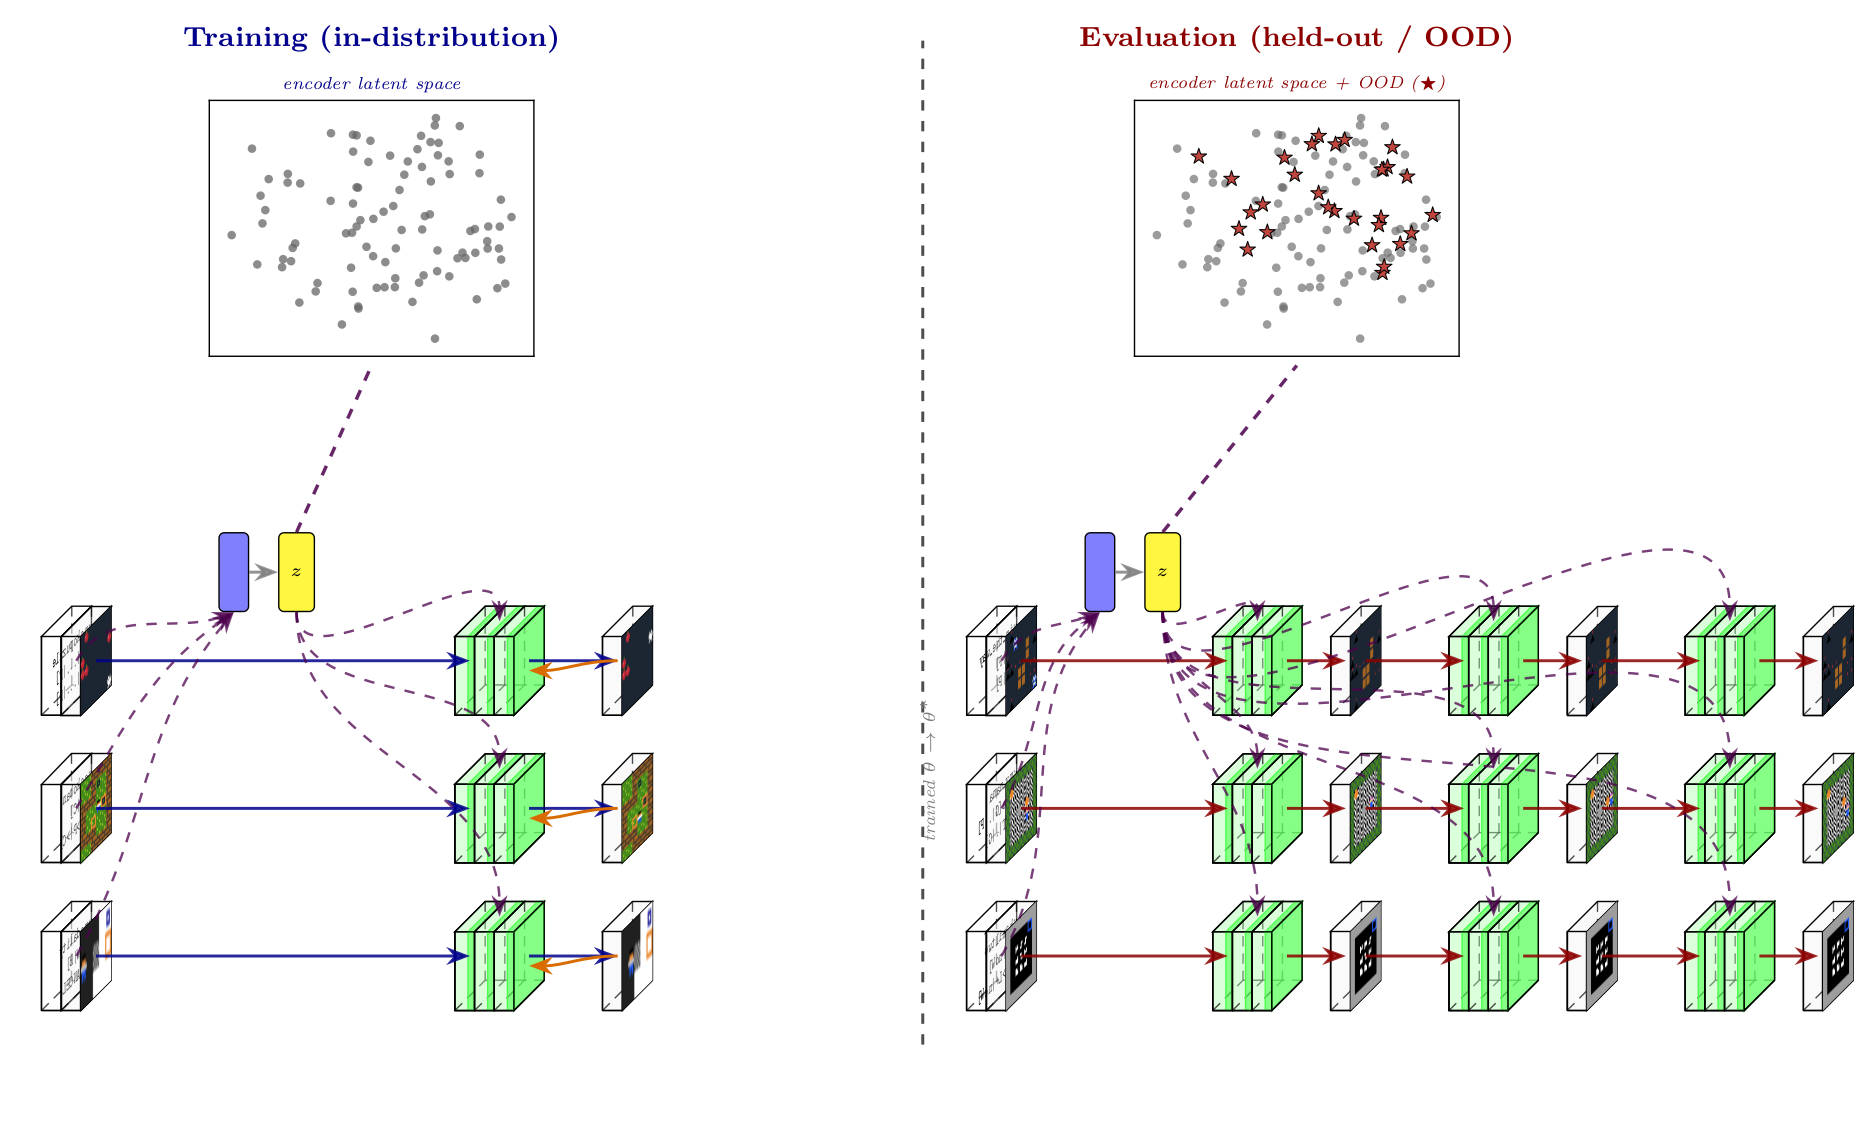
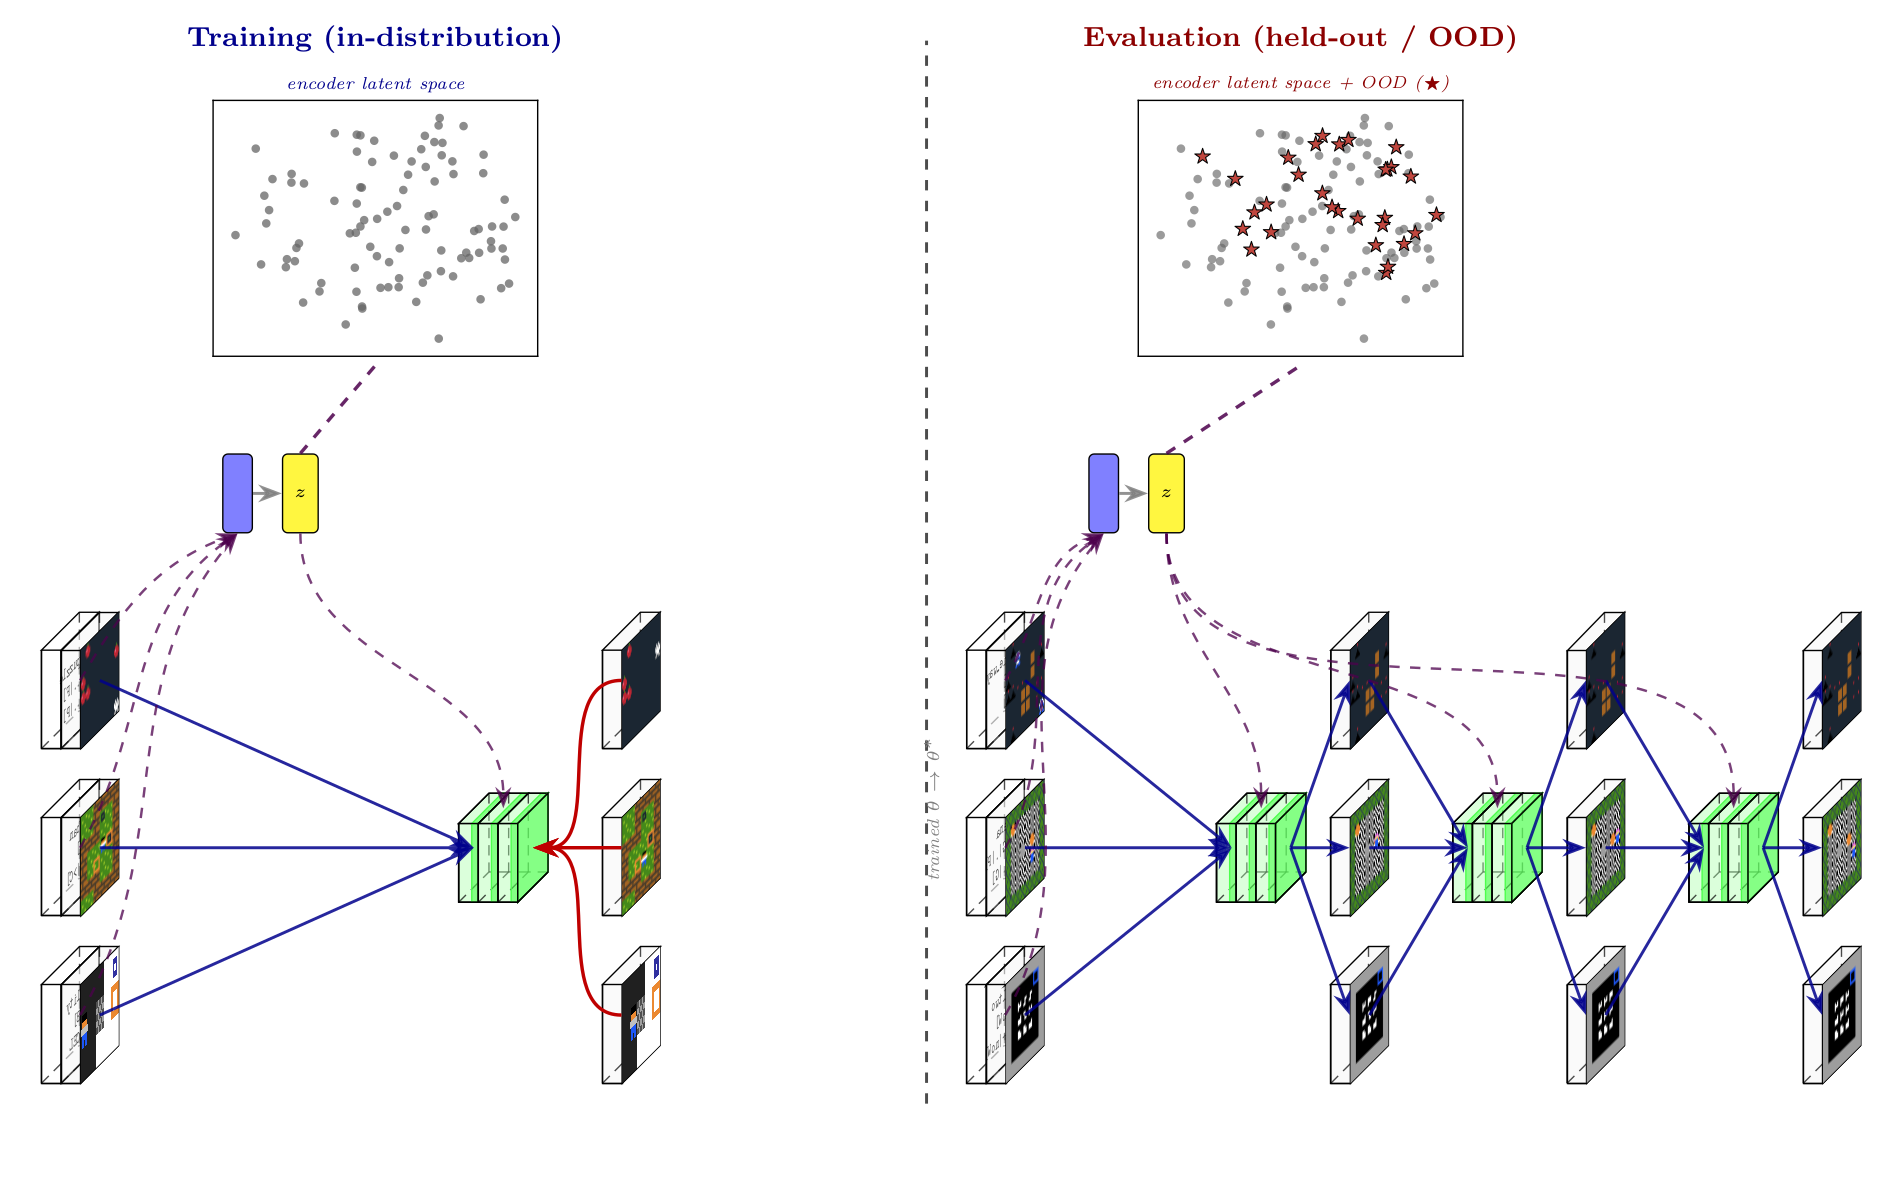
Paper: one NCA per timestep (vertically centered), all-blue eval arrows, red loss
- ID half: drop the per-row NCA columns. A single NCA sits vertically
  centered between the s_0 column and the s_1 column. Each row's s_0
  fans into it; the s_1 frames are the supervision target — only the
  red loss arrow connects them back to the NCA, no blue forward arrow.
- OOD half: collapse the 3-NCA-per-row stack into one NCA per
  timestep, vertically centered. Fan-in from all 3 rows, fan-out to
  all 3 rows. Every input/NCA/output arrow is blue (no red in eval).
- Encoder + latent block raised to y=3.6 so it sits clear of the rows.
- Loss arrow color shifted from orange to red (LossColor = red!75!black).
- State and code boxes enlarged: height/depth 4 → 5; image / code
  text size 0.8 → 1.0 cm.

diff --git a/nca_wm/paper/figures/id_ood_teaser/teaser.tex b/nca_wm/paper/figures/id_ood_teaser/teaser.tex
@@ -2,21 +2,18 @@
 %
 % Single-document standalone TikZ figure.
 %
-% Per game row: a "card pair" — a code Box flush against the WEST
-% (left, reading-order back) face of the PuzzleScript state Box, both
-% same height, both transparent. Code text on the shared east face;
+% Per game row: a transparent code Box flush against the WEST face of
+% a transparent PuzzleScript state Box. Code on the shared east face,
 % state image on the state's east face.
 %
-% Per section: a single skinny Encoder (one blue block) feeds a
-% yellow Latent block ($z$). The latent block conditions every NCA
-% application (drawn as just the 3 green NCA bands). ID rows use one
-% NCA between s_0 and s_1; OOD rows repeat the NCA between every
-% consecutive predicted frame so the autoregressive rollout is
-% explicit.
+% Per section: a single skinny Encoder (one blue block) feeds a yellow
+% Latent block ($z$). The latent block conditions every NCA application
+% (drawn as just the 3 green NCA bands). ID uses ONE NCA (vertically
+% centered between rows) between s_0 and s_1; OOD uses ONE NCA per
+% timestep, also vertically centered, with all rows fanning in/out.
 %
 % Latent scatters (large, above the figure) are connected from the
-% yellow latent block by a dashed line — they're the 2D PCA view of
-% the latent that the encoder produces.
+% yellow latent block by a dashed line.
 %
 \documentclass[border=4pt, multi, tikz]{standalone}
 \usepackage{amsmath}
@@ -38,39 +35,39 @@
 
 \colorlet{IDColor}{blue!55!black}
 \colorlet{OODColor}{red!55!black}
-\colorlet{LossColor}{orange!85!black}
+\colorlet{LossColor}{red!75!black}
 \colorlet{CondColor}{violet!60!black}
 
-% --- PS state frame (transparent). ---
+% --- PS state frame (transparent), bigger than before. ---
 \newcommand{\PSframe}[4]{%
   \pic[shift={(#2, #3, 0)}] at (0,0,0)
       {Box={name=#1, caption=, xlabel={{,}}, zlabel={},
             fill=PSFrameFill, opacity=0.35,
-            height=4, width=1.0, depth=4}};%
+            height=5, width=1.0, depth=5}};%
   \node[canvas is zy plane at x={#2 + 0.2}] at (0, #3)
-      {\includegraphics[width=0.8cm,height=0.8cm]{#4}};%
+      {\includegraphics[width=1.0cm,height=1.0cm]{#4}};%
 }
 
 % --- Card pair: code box LEFT of state box, both transparent.
-%     State image on state east face; code text on the shared boundary.
+%     Bigger than before so the code text is more legible.
 \newcommand{\StateOnCode}[5]{%
   \pic[shift={({#2 - 0.2}, #3, 0)}] at (0,0,0)
       {Box={name=#1c, caption=, xlabel={{,}}, zlabel={},
             fill=CodeFill, opacity=0.35,
-            height=4, width=1.0, depth=4}};%
+            height=5, width=1.0, depth=5}};%
   \node[canvas is zy plane at x={#2}, font=\tiny\ttfamily,
-        align=left, inner sep=0pt, text width=0.78cm,
+        align=left, inner sep=0pt, text width=0.95cm,
         anchor=center]
         at (0, #3) {#5};%
   \pic[shift={(#2, #3, 0)}] at (0,0,0)
       {Box={name=#1g, caption=, xlabel={{,}}, zlabel={},
             fill=PSFrameFill, opacity=0.35,
-            height=4, width=1.0, depth=4}};%
+            height=5, width=1.0, depth=5}};%
   \node[canvas is zy plane at x={#2 + 0.2}] at (0, #3)
-      {\includegraphics[width=0.8cm,height=0.8cm]{#4}};%
+      {\includegraphics[width=1.0cm,height=1.0cm]{#4}};%
 }
 
-% --- NCA "step": just the 3 green bands at (x, y). Anchors n#1-west / -east.
+% --- NCA "step": just the 3 green bands at (x, y).
 \newcommand{\NCAstep}[3]{%
   \pic[shift={(#2, #3, 0)}] at (0,0,0)
       {RightBandedBox={name=n#1, caption=, xlabel={{,,}}, zlabel={},
@@ -79,7 +76,7 @@
 }
 
 % --- Encoder + Latent: one skinny blue Encoder + a yellow Latent ($z$)
-%     block to its right. (#1=name, #2=enc x, #3=enc y).
+%     block to its right.
 \newcommand{\EncLatent}[3]{%
   \node[draw, rounded corners=1.5pt, fill=EncColor, line width=0.4pt,
         minimum width=0.30cm, minimum height=0.80cm, anchor=center]
@@ -96,7 +93,7 @@
 \tikzstyle{connection}=[thick, every node/.style={sloped,allow upside down},
     draw=\edgecolor, opacity=0.7]
 \tikzstyle{arrow}=[-Stealth, line width=0.3mm, opacity=0.85]
-\tikzstyle{lossarrow}=[-Stealth, line width=0.3mm, color=LossColor]
+\tikzstyle{lossarrow}=[-Stealth, line width=0.35mm, color=LossColor]
 \tikzstyle{condarrow}=[-Stealth, line width=0.25mm, dashed,
     color=CondColor, opacity=0.75]
 \tikzstyle{condline}=[line width=0.35mm, dashed,
@@ -106,154 +103,137 @@
 %  LEFT HALF: in-distribution training
 % =============================================================
 
-\StateOnCode{neko}{-7}{ 1.5}{rollouts/nekopuzzle/engine_t0.png}
+\StateOnCode{neko}{-7}{ 1.7}{rollouts/nekopuzzle/engine_t0.png}
     {;nekopuzzle\\{}[>P|...|F]\\->[|...|P]}
 \StateOnCode{soko}{-7}{ 0.0}{rollouts/sokoban_basic/engine_t0.png}
     {;sokoban\\{}[>P|C]\\->[>P|>C]}
-\StateOnCode{mod} {-7}{-1.5}{rollouts/Modality/engine_t0.png}
+\StateOnCode{mod} {-7}{-1.7}{rollouts/Modality/engine_t0.png}
     {;modality\\{}[>PW|B]\\->CANCEL}
 
-% Encoder + latent block ABOVE the rows (y=2.4) so the state→NCA
-% arrows don't pass through it.
-\EncLatent{id}{-5.4}{2.4}
+\EncLatent{id}{-5.4}{3.6}
 
-% One NCA per ID row.
-\NCAstep{idtop}{-3}{ 1.5}
-\NCAstep{idmid}{-3}{ 0.0}
-\NCAstep{idbot}{-3}{-1.5}
+% Single ID NCA, vertically centered (y=0).
+\NCAstep{idn}{-3}{0}
 
-\PSframe{s1_neko}{-1.5}{ 1.5}{rollouts/nekopuzzle/engine_t1.png}
+\PSframe{s1_neko}{-1.5}{ 1.7}{rollouts/nekopuzzle/engine_t1.png}
 \PSframe{s1_soko}{-1.5}{ 0.0}{rollouts/sokoban_basic/engine_t1.png}
-\PSframe{s1_mod} {-1.5}{-1.5}{rollouts/Modality/engine_t1.png}
+\PSframe{s1_mod} {-1.5}{-1.7}{rollouts/Modality/engine_t1.png}
 
-% State (blue) into NCA per row
-\draw[arrow, color=IDColor] (nekog-east) -- (nidtop-west);
-\draw[arrow, color=IDColor] (sokog-east) -- (nidmid-west);
-\draw[arrow, color=IDColor] (modg-east)  -- (nidbot-west);
-% NCA → s_1 per row
-\draw[arrow, color=IDColor] (nidtop-east) -- (s1_neko-west);
-\draw[arrow, color=IDColor] (nidmid-east) -- (s1_soko-west);
-\draw[arrow, color=IDColor] (nidbot-east) -- (s1_mod-west);
+% Forward (blue) state arrows: each row's state -> single NCA (fan-in).
+\draw[arrow, color=IDColor] (nekog-east) -- (nidn-west);
+\draw[arrow, color=IDColor] (sokog-east) -- (nidn-west);
+\draw[arrow, color=IDColor] (modg-east)  -- (nidn-west);
 
-% Code → encoder (dashed violet, fan-in upward to encoder above rows)
+% Loss (red) arrows back from each s_1 to the NCA.
+\draw[lossarrow] (s1_neko-west) to[out=180,in=  0] (nidn-east);
+\draw[lossarrow] (s1_soko-west) to[out=180,in=  0] (nidn-east);
+\draw[lossarrow] (s1_mod-west)  to[out=180,in=  0] (nidn-east);
+
+% Code → encoder fan-in (upward to encoder above rows)
 \draw[condarrow] (nekoc-east) to[out= 60,in=200] (enc_id.south);
 \draw[condarrow] (sokoc-east) to[out= 60,in=215] (enc_id.south);
 \draw[condarrow] (modc-east)  to[out= 60,in=230] (enc_id.south);
 
-% Latent z conditions every ID NCA (down + over to each NCA top)
-\draw[condarrow] (slots_id.south) to[out=-90,in= 90] (nidtop-north);
-\draw[condarrow] (slots_id.south) to[out=-90,in= 90] (nidmid-north);
-\draw[condarrow] (slots_id.south) to[out=-90,in= 90] (nidbot-north);
+% Latent z conditions the ID NCA
+\draw[condarrow] (slots_id.south) to[out=-90,in=90] (nidn-north);
 
-% Loss (dark orange): s_1 back to NCA per row
-\draw[lossarrow] (s1_neko-west) to[out=180,in=  0] ($(nidtop-east)+(0,-0.10)$);
-\draw[lossarrow] (s1_soko-west) to[out=180,in=  0] ($(nidmid-east)+(0,-0.10)$);
-\draw[lossarrow] (s1_mod-west)  to[out=180,in=  0] ($(nidbot-east)+(0,-0.10)$);
-
-% Latent scatter ABOVE the encoder (wider)
-\node[anchor=south, inner sep=1pt] (latent_id) at (-4.0, 4.5)
+% Latent scatter ABOVE the encoder
+\node[anchor=south, inner sep=1pt] (latent_id) at (-4.0, 4.9)
     {\includegraphics[width=3.4cm]{latent_train_only.pdf}};
 \node[font=\tiny\itshape, color=IDColor, anchor=south]
-    at (-4.0, 7.15) {encoder latent space};
+    at (-4.0, 7.55) {encoder latent space};
 \draw[condline] (slots_id.north) -- (latent_id.south);
 
-% ID banner
 \node[font=\footnotesize\bfseries, color=IDColor, anchor=south, align=center]
-    at (-4.0, 7.55) {Training (in-distribution)};
+    at (-4.0, 7.95) {Training (in-distribution)};
 
 % =============================================================
 %  VERTICAL DASHED BORDER between train and eval
 % =============================================================
 \draw[dashed, line width=0.3mm, color=black!70]
-    (1.6, -2.4) -- (1.6,  7.8);
+    (1.6, -2.6) -- (1.6,  8.2);
 \node[font=\itshape\tiny, color=black!50, anchor=south, rotate=90]
     at (1.85, 0.4) {trained $\theta \rightarrow \theta^{*}$};
 
 % =============================================================
-%  RIGHT HALF: held-out eval — NCA repeated between every frame
+%  RIGHT HALF: held-out eval — one NCA per TIMESTEP, all rows fan in
 % =============================================================
 
-\StateOnCode{inway}{ 2.4}{ 1.5}
+\StateOnCode{inway}{ 2.4}{ 1.7}
     {rollouts/in_the_way_by_giovanni_mota/pred_t0.png}
     {;in\_the\_way\\{}[>P|F]\\->[|P]}
 \StateOnCode{nana}{ 2.4}{ 0.0}
     {rollouts/my_nana_ate_my_kid_brother_by_ruth_williams/pred_t0.png}
     {;my\_nana\\late[G|.|P]\\->[T|.|G]}
-\StateOnCode{ham}{ 2.4}{-1.5}
+\StateOnCode{ham}{ 2.4}{-1.7}
     {rollouts/Hamiltwo/pred_t0.png}
     {;hamiltwo\\{}[>L|noW]\\->[>L+|noW]}
 
-% Encoder + latent ABOVE the rows
-\EncLatent{ood}{3.4}{2.4}
+\EncLatent{ood}{3.4}{3.6}
 
-% NCA at x=4.7, ŝ_1 at 5.9, NCA at 7.1, ŝ_2 at 8.3, NCA at 9.5, ŝ_3 at 10.7
-\NCAstep{ooinway1}{4.7}{ 1.5}
-\NCAstep{ooinway2}{7.1}{ 1.5}
-\NCAstep{ooinway3}{9.5}{ 1.5}
-\NCAstep{oonana1}{4.7}{ 0.0}
-\NCAstep{oonana2}{7.1}{ 0.0}
-\NCAstep{oonana3}{9.5}{ 0.0}
-\NCAstep{ooham1}{4.7}{-1.5}
-\NCAstep{ooham2}{7.1}{-1.5}
-\NCAstep{ooham3}{9.5}{-1.5}
+% Three NCA timesteps, vertically centered.
+\NCAstep{oodn1}{4.7}{0}
+\NCAstep{oodn2}{7.1}{0}
+\NCAstep{oodn3}{9.5}{0}
 
-\PSframe{h1_inway}{ 5.9}{ 1.5}{rollouts/in_the_way_by_giovanni_mota/pred_t1.png}
-\PSframe{h2_inway}{ 8.3}{ 1.5}{rollouts/in_the_way_by_giovanni_mota/pred_t2.png}
-\PSframe{h3_inway}{10.7}{ 1.5}{rollouts/in_the_way_by_giovanni_mota/pred_t3.png}
+\PSframe{h1_inway}{ 5.9}{ 1.7}{rollouts/in_the_way_by_giovanni_mota/pred_t1.png}
+\PSframe{h2_inway}{ 8.3}{ 1.7}{rollouts/in_the_way_by_giovanni_mota/pred_t2.png}
+\PSframe{h3_inway}{10.7}{ 1.7}{rollouts/in_the_way_by_giovanni_mota/pred_t3.png}
 
 \PSframe{h1_nana}{ 5.9}{ 0.0}{rollouts/my_nana_ate_my_kid_brother_by_ruth_williams/pred_t1.png}
 \PSframe{h2_nana}{ 8.3}{ 0.0}{rollouts/my_nana_ate_my_kid_brother_by_ruth_williams/pred_t2.png}
 \PSframe{h3_nana}{10.7}{ 0.0}{rollouts/my_nana_ate_my_kid_brother_by_ruth_williams/pred_t3.png}
 
-\PSframe{h1_ham}{ 5.9}{-1.5}{rollouts/Hamiltwo/pred_t1.png}
-\PSframe{h2_ham}{ 8.3}{-1.5}{rollouts/Hamiltwo/pred_t2.png}
-\PSframe{h3_ham}{10.7}{-1.5}{rollouts/Hamiltwo/pred_t3.png}
+\PSframe{h1_ham}{ 5.9}{-1.7}{rollouts/Hamiltwo/pred_t1.png}
+\PSframe{h2_ham}{ 8.3}{-1.7}{rollouts/Hamiltwo/pred_t2.png}
+\PSframe{h3_ham}{10.7}{-1.7}{rollouts/Hamiltwo/pred_t3.png}
 
-% State → NCA → ŝ chain per row
-\draw[arrow, color=OODColor] (inwayg-east)    -- (nooinway1-west);
-\draw[arrow, color=OODColor] (nooinway1-east) -- (h1_inway-west);
-\draw[arrow, color=OODColor] (h1_inway-east)  -- (nooinway2-west);
-\draw[arrow, color=OODColor] (nooinway2-east) -- (h2_inway-west);
-\draw[arrow, color=OODColor] (h2_inway-east)  -- (nooinway3-west);
-\draw[arrow, color=OODColor] (nooinway3-east) -- (h3_inway-west);
+% Forward chain (BLUE everywhere in the eval part). Fan-in into each
+% NCA from all 3 rows, fan-out from each NCA to all 3 rows.
+% s_0 → NCA1
+\draw[arrow, color=IDColor] (inwayg-east) -- (noodn1-west);
+\draw[arrow, color=IDColor] (nanag-east)  -- (noodn1-west);
+\draw[arrow, color=IDColor] (hamg-east)   -- (noodn1-west);
+% NCA1 → ŝ_1
+\draw[arrow, color=IDColor] (noodn1-east) -- (h1_inway-west);
+\draw[arrow, color=IDColor] (noodn1-east) -- (h1_nana-west);
+\draw[arrow, color=IDColor] (noodn1-east) -- (h1_ham-west);
+% ŝ_1 → NCA2
+\draw[arrow, color=IDColor] (h1_inway-east) -- (noodn2-west);
+\draw[arrow, color=IDColor] (h1_nana-east)  -- (noodn2-west);
+\draw[arrow, color=IDColor] (h1_ham-east)   -- (noodn2-west);
+% NCA2 → ŝ_2
+\draw[arrow, color=IDColor] (noodn2-east) -- (h2_inway-west);
+\draw[arrow, color=IDColor] (noodn2-east) -- (h2_nana-west);
+\draw[arrow, color=IDColor] (noodn2-east) -- (h2_ham-west);
+% ŝ_2 → NCA3
+\draw[arrow, color=IDColor] (h2_inway-east) -- (noodn3-west);
+\draw[arrow, color=IDColor] (h2_nana-east)  -- (noodn3-west);
+\draw[arrow, color=IDColor] (h2_ham-east)   -- (noodn3-west);
+% NCA3 → ŝ_3
+\draw[arrow, color=IDColor] (noodn3-east) -- (h3_inway-west);
+\draw[arrow, color=IDColor] (noodn3-east) -- (h3_nana-west);
+\draw[arrow, color=IDColor] (noodn3-east) -- (h3_ham-west);
 
-\draw[arrow, color=OODColor] (nanag-east)    -- (noonana1-west);
-\draw[arrow, color=OODColor] (noonana1-east) -- (h1_nana-west);
-\draw[arrow, color=OODColor] (h1_nana-east)  -- (noonana2-west);
-\draw[arrow, color=OODColor] (noonana2-east) -- (h2_nana-west);
-\draw[arrow, color=OODColor] (h2_nana-east)  -- (noonana3-west);
-\draw[arrow, color=OODColor] (noonana3-east) -- (h3_nana-west);
-
-\draw[arrow, color=OODColor] (hamg-east)    -- (nooham1-west);
-\draw[arrow, color=OODColor] (nooham1-east) -- (h1_ham-west);
-\draw[arrow, color=OODColor] (h1_ham-east)  -- (nooham2-west);
-\draw[arrow, color=OODColor] (nooham2-east) -- (h2_ham-west);
-\draw[arrow, color=OODColor] (h2_ham-east)  -- (nooham3-west);
-\draw[arrow, color=OODColor] (nooham3-east) -- (h3_ham-west);
-
-% Code → encoder fan-in (upward)
+% Code → encoder
 \draw[condarrow] (inwayc-east) to[out= 60,in=200] (enc_ood.south);
 \draw[condarrow] (nanac-east)  to[out= 60,in=215] (enc_ood.south);
 \draw[condarrow] (hamc-east)   to[out= 60,in=230] (enc_ood.south);
 
-% Latent z conditions every NCA in every OOD row (it conditions the
-% same θ* applied at each tick).
-\foreach \name in {nooinway1, nooinway2, nooinway3,
-                    noonana1, noonana2, noonana3,
-                    nooham1, nooham2, nooham3} {%
-  \draw[condarrow] (slots_ood.south) to[out=-90,in=90] (\name-north);
-}
+% Latent z conditions every OOD NCA timestep
+\draw[condarrow] (slots_ood.south) to[out=-90,in=90] (noodn1-north);
+\draw[condarrow] (slots_ood.south) to[out=-90,in=90] (noodn2-north);
+\draw[condarrow] (slots_ood.south) to[out=-90,in=90] (noodn3-north);
 
-% Latent scatter ABOVE the encoder (wider)
-\node[anchor=south, inner sep=1pt] (latent_ood) at (5.4, 4.5)
+% Latent scatter ABOVE the encoder
+\node[anchor=south, inner sep=1pt] (latent_ood) at (5.4, 4.9)
     {\includegraphics[width=3.4cm]{latent_with_ood.pdf}};
 \node[font=\tiny\itshape, color=OODColor, anchor=south]
-    at (5.4, 7.15) {encoder latent space + OOD ($\bigstar$)};
+    at (5.4, 7.55) {encoder latent space + OOD ($\bigstar$)};
 \draw[condline] (slots_ood.north) -- (latent_ood.south);
 
-% OOD banner
 \node[font=\footnotesize\bfseries, color=OODColor, anchor=south, align=center]
-    at (5.4, 7.55) {Evaluation (held-out / OOD)};
+    at (5.4, 7.95) {Evaluation (held-out / OOD)};
 
 \end{tikzpicture}
 
